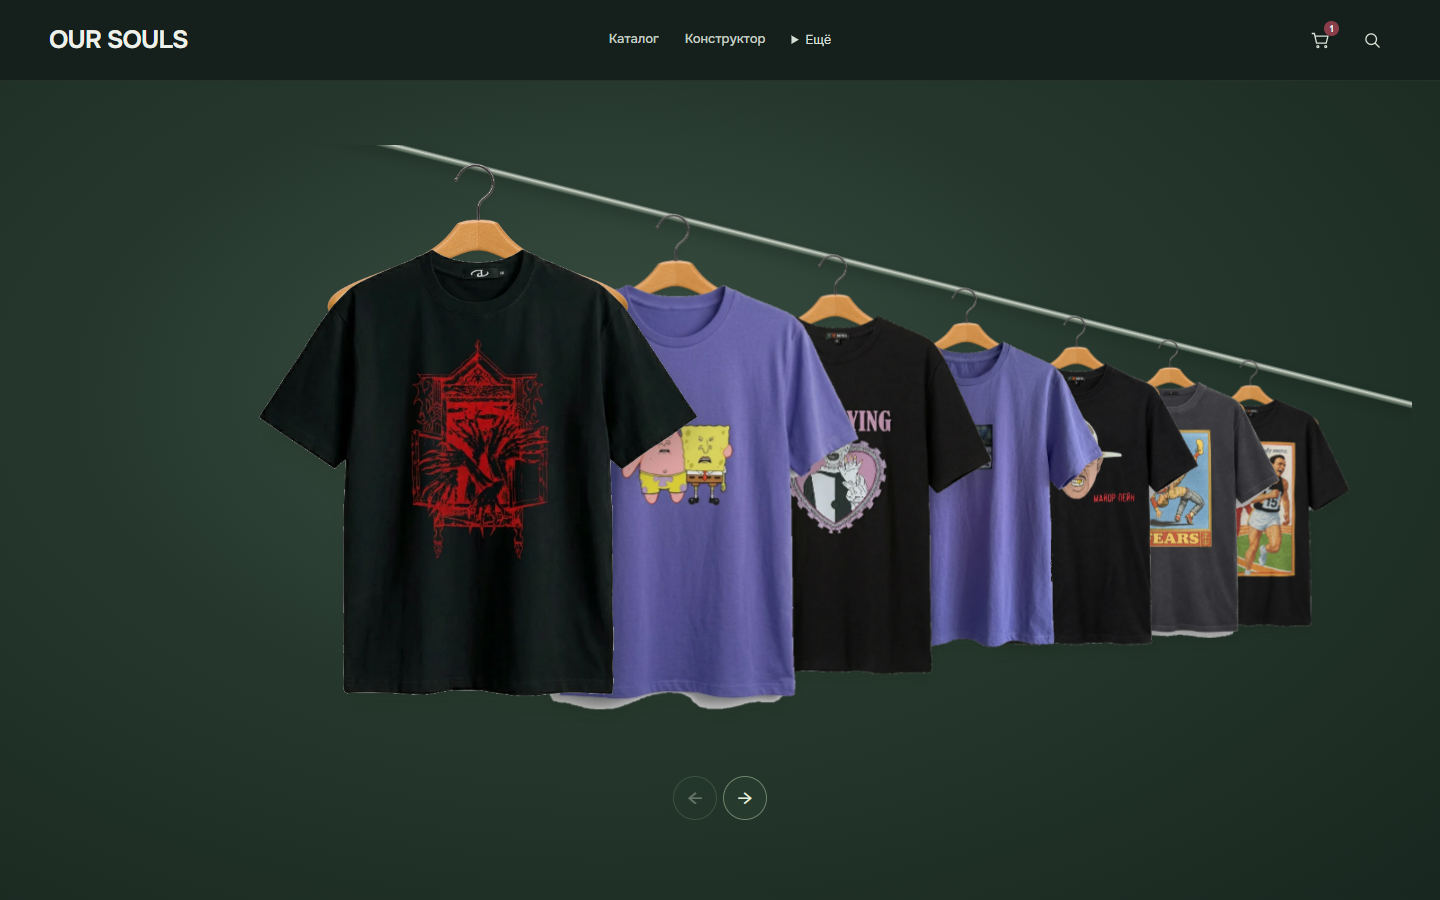
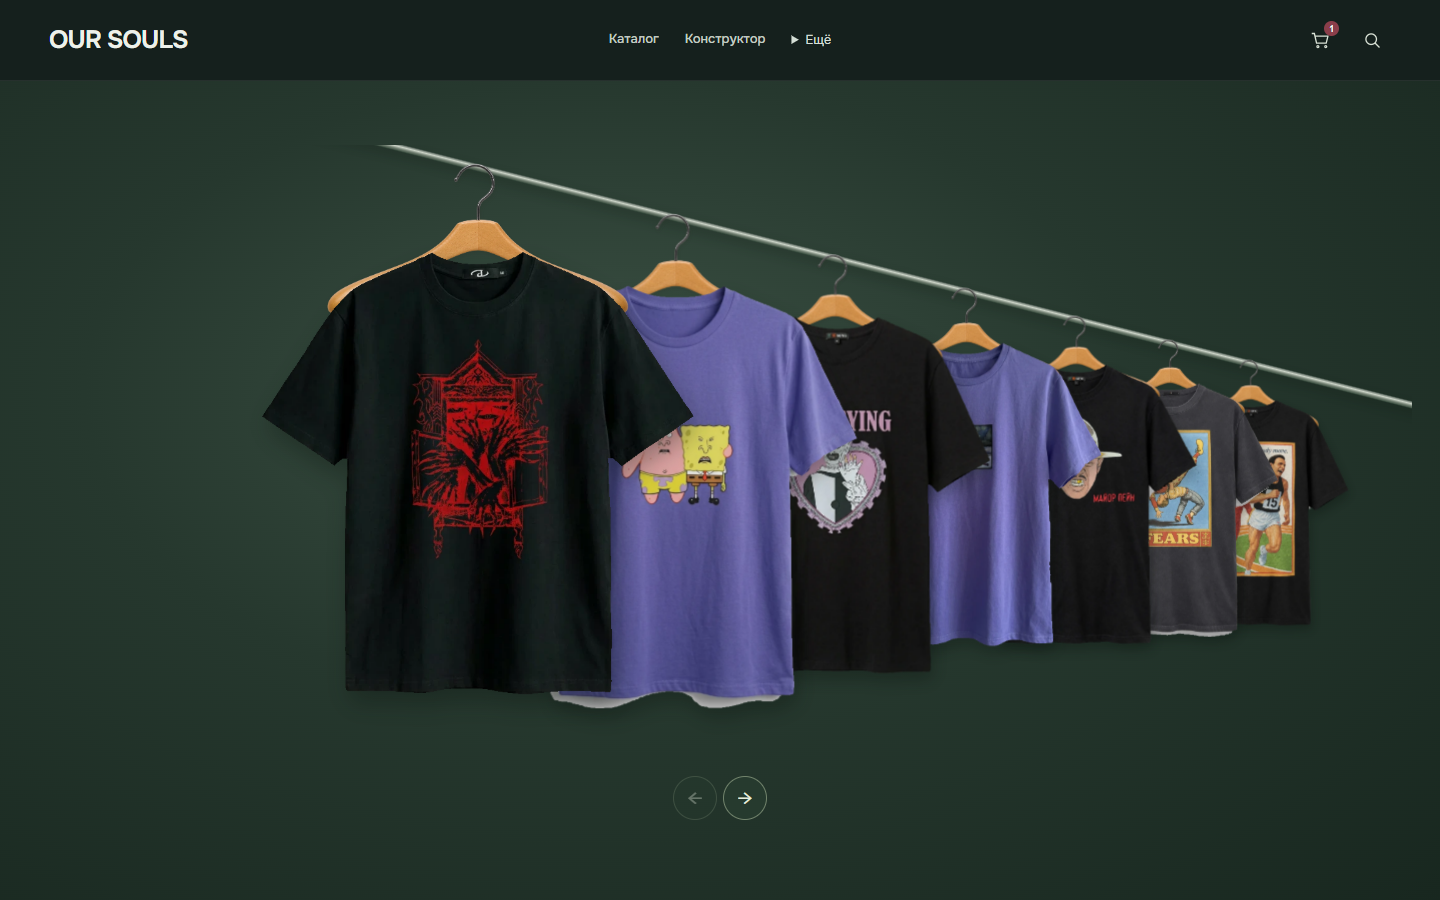
Refine prepared rack image edges against the dark studio

diff --git a/templates/base.html b/templates/base.html
@@ -22,7 +22,7 @@
   <link rel="stylesheet" href="/static/theme/shop-2d.css?v=2">
   {% if request.endpoint == 'constructor' %}<link rel="stylesheet" href="/static/studio/journey.css?v=1">{% endif %}
   {% if request.endpoint == "home" %}<link rel="stylesheet" href="/static/rack/rack.css?v=5">{% endif %}
-  <link rel="stylesheet" href="/static/theme/studio.css?v=1">
+  <link rel="stylesheet" href="/static/theme/studio.css?v=1.1">
 </head>
 <body class="os-editorial page-{{ request.endpoint }}">
 <a class="skip-link" href="#main">Перейти к содержимому</a>

diff --git a/static/theme/studio.css b/static/theme/studio.css
@@ -278,3 +278,6 @@ body.page-constructor #our-print .os-cart-design{width:100%;margin-top:10px;min-
 /* The display canvas and its surround form one studio surface. */
 body.page-constructor #our-print .os-stage-viewport{background:#2b3730}
 body.os-editorial .product-card .product-image,body.os-editorial .product-gallery-main{background:#d5d7d4}
+
+/* Trim the exterior fringe of the eight legacy alpha mattes only. */
+body.os-editorial .rack-piece [data-rack-photo][src*="/static/rack/images/"]{filter:url(#rack-edge-trim) drop-shadow(4px 12px 12px #08100b55)}

diff --git a/templates/rack.html b/templates/rack.html
@@ -1,4 +1,5 @@
 <section class="rack-section" id="catalog" aria-labelledby="rack-heading" data-rack>
+  <svg width="0" height="0" aria-hidden="true" focusable="false" style="position:absolute;pointer-events:none"><defs><filter id="rack-edge-trim" color-interpolation-filters="sRGB"><feMorphology in="SourceAlpha" operator="erode" radius="1.6" result="edge"/><feComposite in="SourceGraphic" in2="edge" operator="in"/></filter></defs></svg>
   <div class="wrap">
     <h1 id="rack-heading" class="rack-sr-only">Каталог Our Souls</h1>
     {% if products %}

diff --git a/docs/qa/studio-rollout.md b/docs/qa/studio-rollout.md
@@ -24,7 +24,7 @@
 ## Практические пределы
 
 - Сегментация настроена на нынешние центрированные студийные фотографии. Новые lifestyle-снимки требуют подготовленного прозрачного rack_image.
-- На части прежних прозрачных rack-assets заметна тонкая светлая кайма. Они сохранены; для идеального результата нужны аккуратные подготовленные альфа-маски этих исходников.
+- У прежних прозрачных rack-assets подрезан внешний alpha-контур средствами SVG при отображении. На некоторых широких светлых участках края кайма ещё заметна. Исходники сохранены; для идеального результата нужны аккуратные подготовленные альфа-маски этих исходников.
 - Физический iPhone/Android и длительный FPS/память benchmark не выполнялись. Проверки мобильных размеров — браузерная эмуляция.
 - В текущих локальных товарах нет снимков спины для проверки реального многокадрового товара; навигация галереи реализована без вымышленных фото.
 
